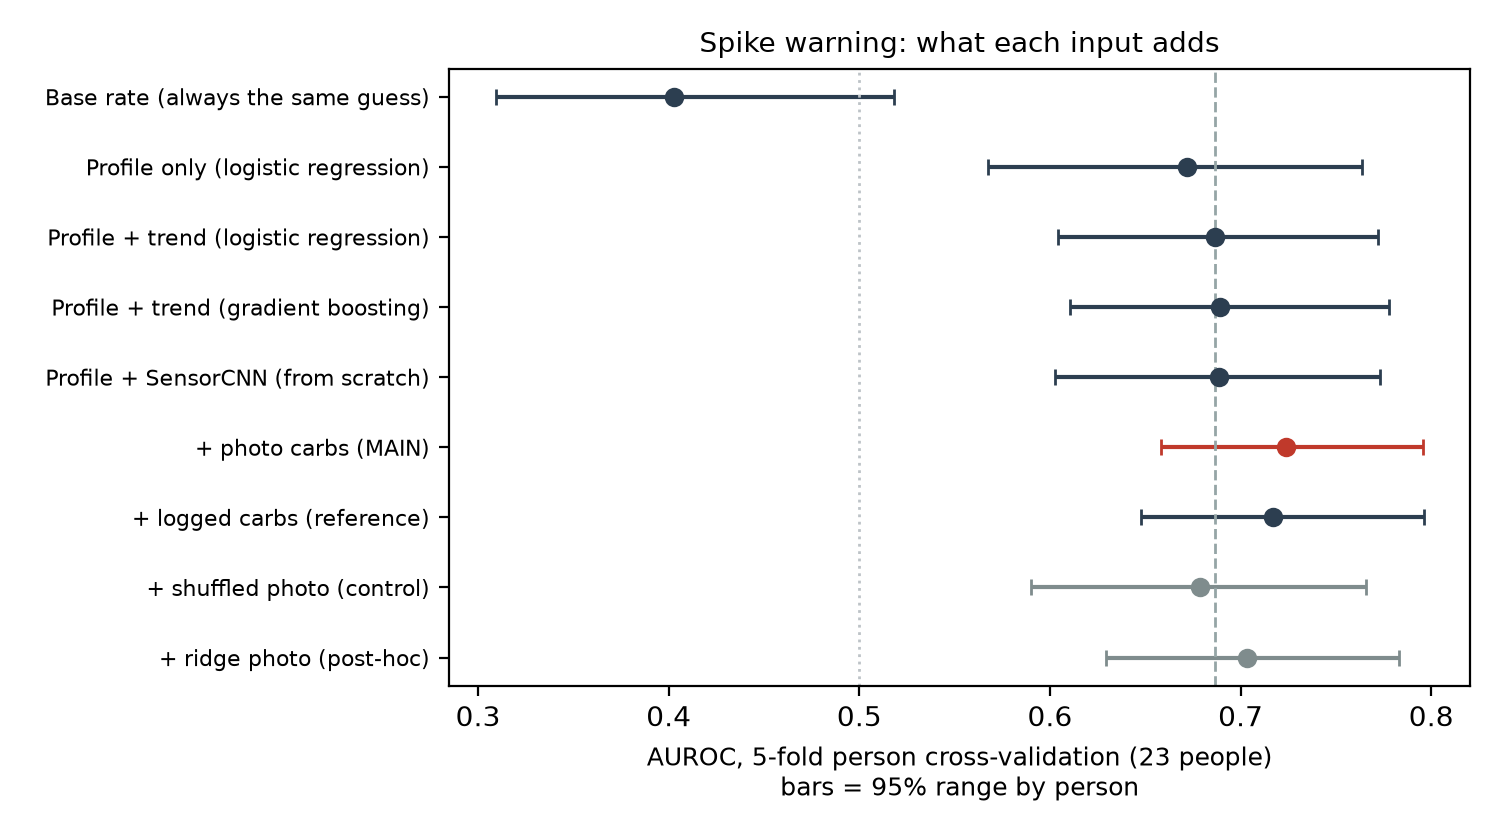
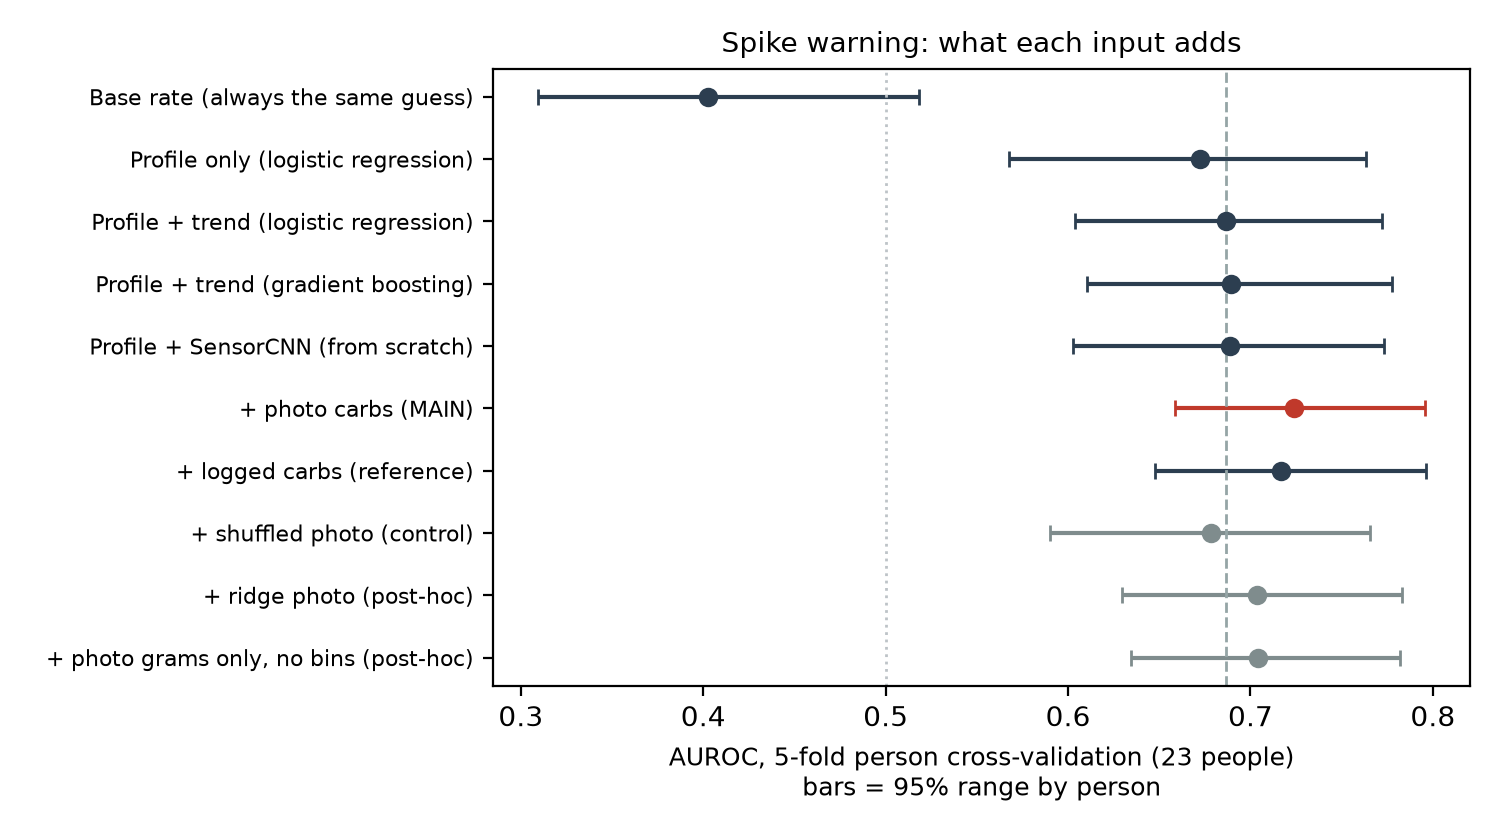
Step 5c (post-hoc): carb-bin head check - fusion with fine-tuned photo grams only (no bin probabilities) 0.704 vs main 0.724; bins add +0.020 (95% +0.005 to +0.035); explains why ridge (grams only) scores lower despite better grams; results snapshot updated

diff --git a/src/glimpse/training/fusion.py b/src/glimpse/training/fusion.py
@@ -108,8 +108,11 @@ def run_carbs_check(ds: MealDataset, sp: Splits, cfg: GlimpseConfig) -> dict:
 
 # ---------------------------------------------------------------- Step 4c-3: fusion with the photo estimate
 PHOTO_COLS = ["log_photo_g", "p_bin1", "p_bin2", "p_bin3"]  # p_bin0 left out: the four probabilities sum to 1
-FUSION_ARMS = ["no_meal", "photo", "logged_carbs", "photo_shuffled", "ridge_photo"]
-POST_HOC = ["ridge_photo"]  # added after seeing 4c-2; reported as secondary, never as the main result
+FUSION_ARMS = ["no_meal", "photo", "logged_carbs", "photo_shuffled", "ridge_photo", "photo_grams_only"]
+# added after seeing results; reported as secondary, never as the main result. ridge_photo: after 4c-2.
+# photo_grams_only (after Step 5): the fine-tuned photo estimate WITHOUT the bin probabilities, to show what the
+# carb-bin head adds (the instructor asked for that head).
+POST_HOC = ["ridge_photo", "photo_grams_only"]
 
 
 def photo_table(df: pd.DataFrame) -> dict[int, list[float]]:
@@ -162,8 +165,10 @@ def run_fusion(ds: MealDataset, sp: Splits, cfg: GlimpseConfig) -> dict:
         pt = photo_table(p_nested[p_nested.fold == kk]) | photo_table(p_oof[p_oof.fold == kk])
         rt = ridge_table(r_nested[r_nested.fold == kk]) | ridge_table(r_oof[r_oof.fold == kk])
         inner = _inner_folds(people, groups, cfg.cv.inner_folds, cfg.seed + 100 + k)
+        gt = {r: v[:1] for r, v in pt.items()}  # log grams only, no bin probabilities
         X = {"no_meal": trend_features, "photo": with_table(pt, len(PHOTO_COLS)),
-             "logged_carbs": arm_features("logged_carbs"), "ridge_photo": with_table(rt, 1)}  # fmt: skip
+             "logged_carbs": arm_features("logged_carbs"), "ridge_photo": with_table(rt, 1),
+             "photo_grams_only": with_table(gt, 1)}  # fmt: skip
         preds, chosen = {}, {"fold": kk}
         for arm, fx in X.items():
             c, _ = _tune_sklearn(lambda c: logistic(c, cfg.seed), grid, fx, ds, people, inner, y)

diff --git a/src/glimpse/run_evaluation.py b/src/glimpse/run_evaluation.py
@@ -59,6 +59,7 @@ LADDER = [  # (label, column): the order of the results table and the AUROC figu
     ("+ logged carbs (reference)", "logged_carbs"),
     ("+ shuffled photo (control)", "photo_shuffled"),
     ("+ ridge photo (post-hoc)", "ridge_photo"),
+    ("+ photo grams only, no bins (post-hoc)", "photo_grams_only"),
 ]
 
 
@@ -186,7 +187,9 @@ def run_evaluation(ds: MealDataset, sp: Splits, cfg: GlimpseConfig) -> dict:
         m, lo, hi = paired_person_bootstrap(y, df[a].to_numpy(), df[b].to_numpy(), sids, B=B, seed=seed)
         return {"point": _auc(y, df[a].to_numpy()) - _auc(y, df[b].to_numpy()), "ci95": [lo, hi]}
 
-    gains = {c: gain(c, "no_meal") for c in ["photo", "logged_carbs", "photo_shuffled", "ridge_photo"]}
+    arms = ["photo", "logged_carbs", "photo_shuffled", "ridge_photo", "photo_grams_only"]
+    gains = {c: gain(c, "no_meal") for c in arms}
+    gains["bins_added"] = gain("photo", "photo_grams_only")  # what the carb-bin head adds (post-hoc)
     rq1 = gain("photo", "logged_carbs")
     rq1["verdict"] = noninferiority(*rq1["ci95"], cfg.targets.rq1_noninferiority_margin)
     rq2 = gain("sensor_cnn", "no_meal")
@@ -292,8 +295,8 @@ def _figures(table: pd.DataFrame, rel: list, ece: float) -> None:
 
     t = table.iloc[::-1]
     fig, ax = plt.subplots(figsize=(7.5, 4.2))
-    colors = ["#c0392b" if c == "photo" else "#7f8c8d" if c in ("photo_shuffled", "ridge_photo") else "#2c3e50"
-              for c in t.column]  # fmt: skip
+    grey = ("photo_shuffled", "ridge_photo", "photo_grams_only")
+    colors = ["#c0392b" if c == "photo" else "#7f8c8d" if c in grey else "#2c3e50" for c in t.column]
     for k, (r, col) in enumerate(zip(t.itertuples(), colors, strict=True)):
         ax.errorbar(r.auroc, k, xerr=[[r.auroc - r.auroc_lo], [r.auroc_hi - r.auroc]], fmt="o", color=col, capsize=3)
     base = float(table.loc[table.column == "no_meal", "auroc"].iloc[0])

diff --git a/docs/evaluation_protocol.md b/docs/evaluation_protocol.md
@@ -88,3 +88,7 @@ Settings referred to here live in `configs/default.yaml` (`splits`, `cv`, `basel
   cross-validation with the main cut-offs (they use no data, so this is fair).
 - The amendment file (`checkpoints/thresholds_amended.json`, with its hash) is committed before `glimpse evaluate`
   scores the test; the command refuses to run otherwise.
+
+## Added after Step 5 (post-hoc, secondary)
+- **Carb-bin head check:** a fusion arm with the fine-tuned photo estimate in grams only (no bin probabilities), same
+  folds and estimates. The gain of the main arm over it shows what the carb-bin head adds. Never the main result.

diff --git a/outputs/evaluation/results.md b/outputs/evaluation/results.md
@@ -11,6 +11,7 @@
 | + logged carbs (reference) | 0.717 (0.648-0.796) | 0.729 | 0.587 | 0.192 |
 | + shuffled photo (control) | 0.679 (0.590-0.766) | 0.674 | 0.502 | 0.204 |
 | + ridge photo (post-hoc) | 0.703 (0.630-0.783) | 0.716 | 0.565 | 0.196 |
+| + photo grams only, no bins (post-hoc) | 0.704 (0.635-0.782) | 0.712 | 0.584 | 0.195 |
 
 Base spike rate 33% (481 meals, 23 people).
 
